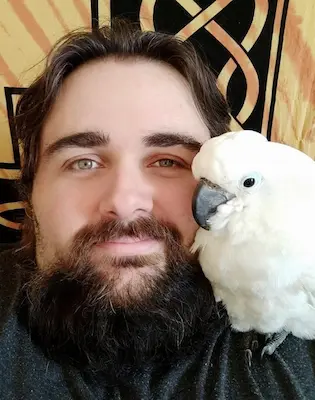
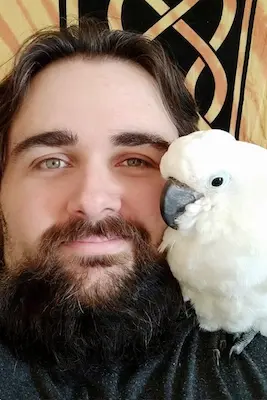
modif about et chgment photo

diff --git a/src/components/About.jsx b/src/components/About.jsx
@@ -1,21 +1,38 @@
-import React from 'react';
+import React, { useState, useEffect } from 'react';
+import Me from "../assets/Florian Godeau.webp";
+import SecondImage from "../assets/photokiwismall.webp"; // Assurez-vous que le chemin est correct
 
 function About() {
+    const [currentImage, setCurrentImage] = useState(Me);
+
+    useEffect(() => {
+        const intervalId = setInterval(() => {
+            setCurrentImage(currentImage => (currentImage === Me ? SecondImage : Me));
+        }, 10000); // Change l'image toutes les 10 secondes
+
+        return () => clearInterval(intervalId); // Nettoyage de l'intervalle lors du démontage du composant
+    }, []);
+
     return (
-        <section id="about">
-            <h2>À propos de moi :</h2>
-            <p>
-                Bonjour et bienvenue sur mon portfolio ! Je m'appelle Florian Godeau, et ma passion pour l'informatique a façonné mon parcours professionnel et personnel.
+        <section id="about" className='about'>
+            <h2 className='about__title'>À propos de moi :</h2>
+            <div className='about__content'>
+                <div className="about__content__imageContainer">
+                    <img src={currentImage} alt="Florian Godeau" className="about__content__imageContainer__img"/>
+                </div>
+                <p className='about__content__text'>
+                    Bonjour et bienvenue sur mon portfolio ! Je m'appelle Florian Godeau, et ma passion pour l'informatique a façonné mon parcours professionnel et personnel.
 
-                Mon aventure dans le monde de l'informatique a commencé avec un vif intérêt pour le hardware. J'ai d'abord embrassé le rôle de technicien de maintenance informatique, une expérience qui m'a permis de comprendre en profondeur le fonctionnement des systèmes informatiques et de développer une approche pragmatique et orientée solution.
+                    Mon aventure dans le monde de l'informatique a commencé avec un vif intérêt pour le hardware. J'ai d'abord embrassé le rôle de technicien de maintenance informatique, une expérience qui m'a permis de comprendre en profondeur le fonctionnement des systèmes informatiques et de développer une approche pragmatique et orientée solution.
 
-                Animé par la volonté d'élargir mes horizons et d'acquérir de nouvelles compétences, je me suis ensuite tourné vers le développement web. J'ai suivi avec succès une formation d'intégrateur web chez Openclassrooms, un voyage fascinant qui m'a permis de combiner ma rigueur technique avec une créativité nouvelle dans la conception de sites web.
+                    Animé par la volonté d'élargir mes horizons et d'acquérir de nouvelles compétences, je me suis ensuite tourné vers le développement web. J'ai suivi avec succès une formation d'intégrateur web chez Openclassrooms, un voyage fascinant qui m'a permis de combiner ma rigueur technique avec une créativité nouvelle dans la conception de sites web.
 
-                Aujourd'hui, je suis fier de mettre à votre disposition mon expertise technique et ma passion pour l'informatique afin de créer des solutions web sur mesure, esthétiques et fonctionnelles. Chaque projet est pour moi une nouvelle aventure, une opportunité de relever des défis et de transformer vos idées en réalité numérique.
+                    Aujourd'hui, je suis fier de mettre à votre disposition mon expertise technique et ma passion pour l'informatique afin de créer des solutions web sur mesure, esthétiques et fonctionnelles. Chaque projet est pour moi une nouvelle aventure, une opportunité de relever des défis et de transformer vos idées en réalité numérique.
 
-                Découvrez mes travaux et n'hésitez pas à me contacter pour discuter de votre projet.
-            </p>
-            <a href="/path-to-your-CV.pdf" target="_blank" rel="noreferrer">Mon CV</a>
+                    Découvrez mes travaux et n'hésitez pas à me contacter pour discuter de votre projet.
+                </p>
+            </div>
+            <a className='about__cvLink' href="/path-to-your-CV.pdf" target="_blank" rel="noreferrer">Mon CV</a>
         </section>
     );
 }

diff --git a/src/style/components/_about.scss b/src/style/components/_about.scss
@@ -1,0 +1,26 @@
+.about {
+    display: flex;
+    flex-direction: column;
+    align-items: center;
+    justify-content: center;
+    gap: 20px;
+    padding: 20px;
+
+    &__content {
+        display: flex;
+        flex-direction: row;
+
+        &__imageContainer {
+            padding-right: 20px;
+
+            &__img {
+            border-radius: 10px;
+            }
+        }
+
+        &__text {
+            text-align: center;
+            margin-top: 45px;
+        }
+    }
+}
